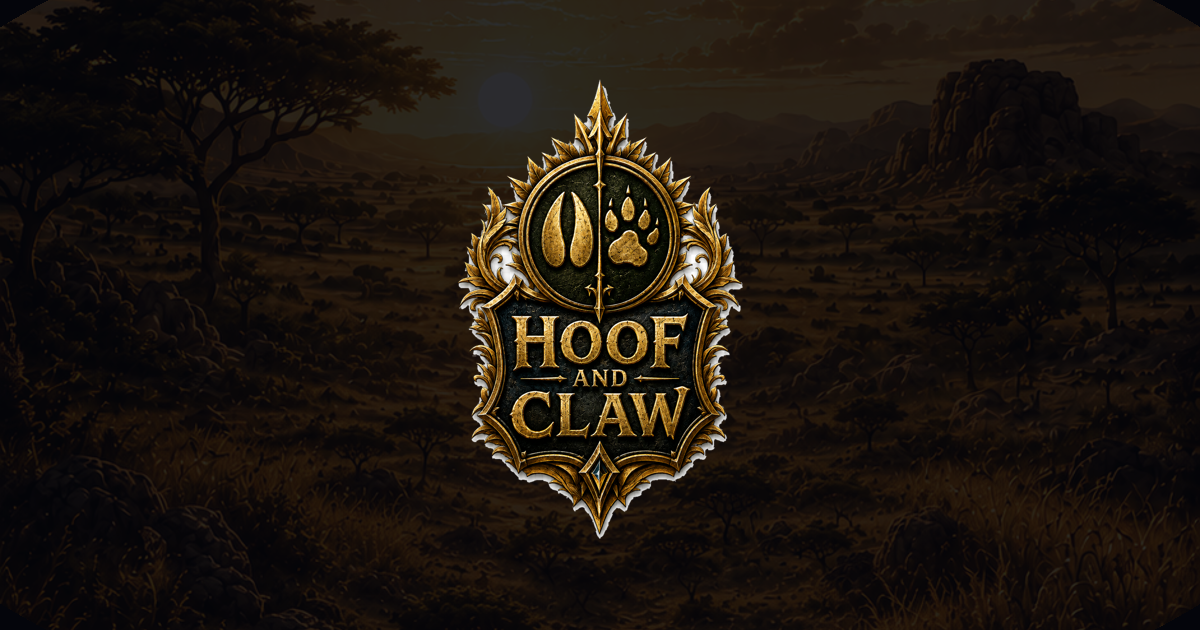
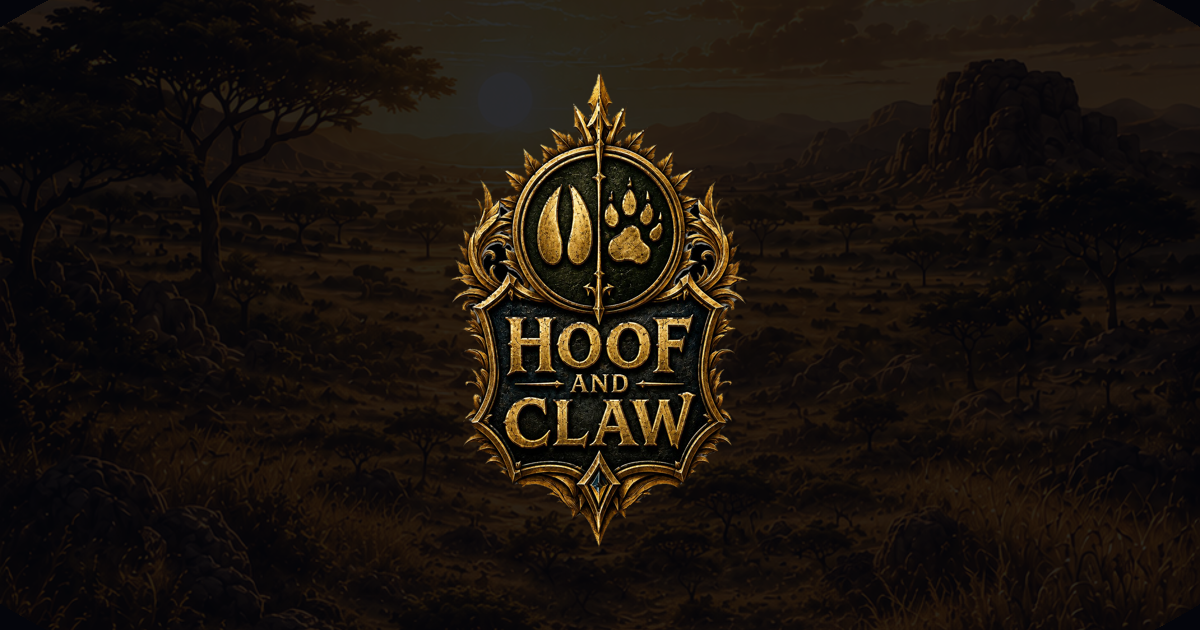
Hero polish: clean emblem, new lore copy, parallax pan, bigger act labels
- Swap in cleaner transparent emblem; regenerate OG image.
- New tagline + lore intro; remove stats from hero; refined gold positioning line.
- Scene backdrop now pans vertically on scroll (horizon -> golden land).
- Larger Dawn/Dusk/Night phase labels.

Changed region(s): [[0.37, 0.1206, 0.6167, 0.8746]]

diff --git a/src/config.ts b/src/config.ts
@@ -4,10 +4,16 @@
 export const site = {
   name: 'Hoof & Claw',
   // Short, evocative hero line.
-  tagline: 'Trust is the rarest prey.',
+  tagline: 'Watch the grass. Trust no one. Survival is the only law.',
+  // Hero lore (no rules revealed).
+  intro: {
+    lead: 'Under the relentless heat of the golden sun, an uneasy peace holds at the watering hole. Among the wandering Herd, a hungry Pack has hidden in plain sight.',
+    body: 'Hoof & Claw is a battle of power, deception, deduction, and survival — the Herd must unite before the migration ends, while the Pack hunts from within and Chaos waits for the perfect moment.',
+    flourish: 'The migration has begun.',
+  },
   // One-sentence positioning — catchy + thematic, no rules revealed.
   positioning:
-    'A board game and companion app that turns any gathering into a night of hope, fear, and beautiful betrayal.',
+    'A board game & companion app that turns any gathering into a night of hope, fear, and beautiful betrayal.',
   description:
     'Hoof & Claw is a board game + companion app of social deduction on the savanna. Friends by day, predators by night. 6–20 players, 15–45 minutes, ages 13+. Join the waitlist for the Kickstarter.',
   domain: 'https://hoofandclaw.org',